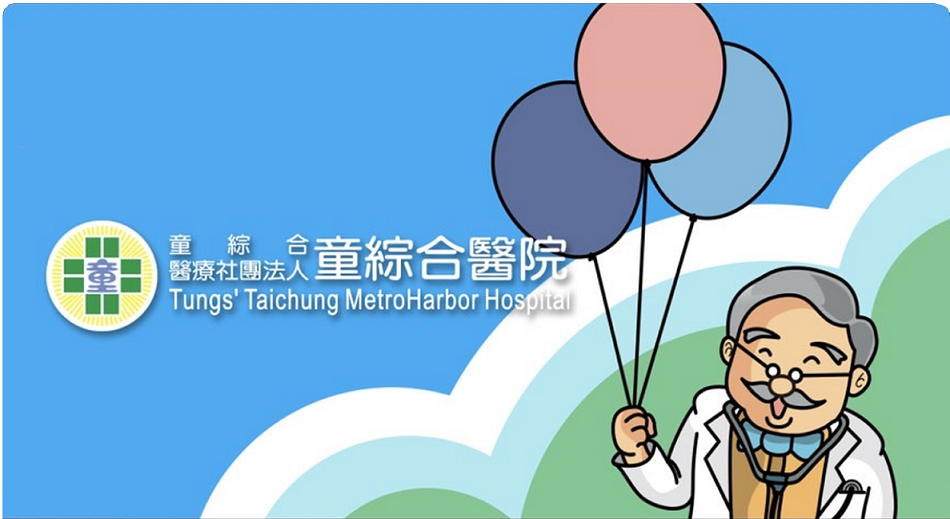
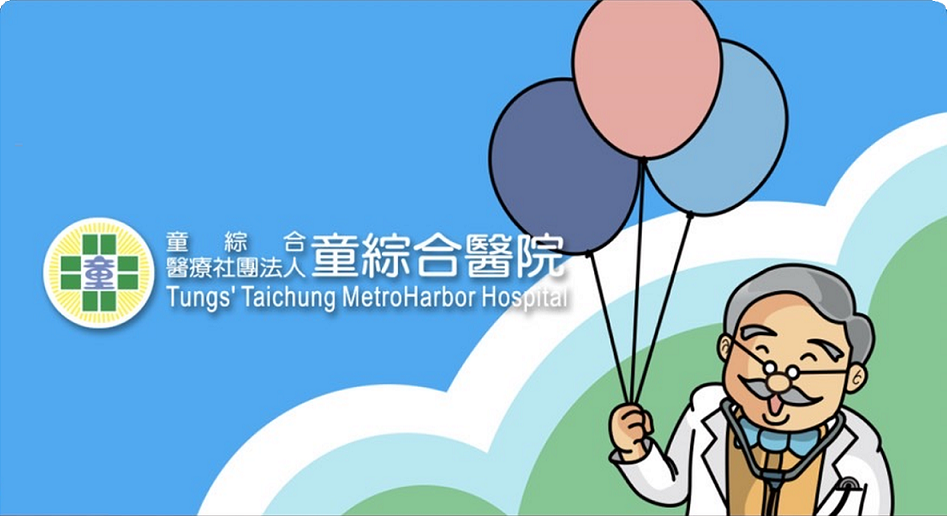
homePage ui cut with 3 piece

diff --git a/src/assets/css/style.css b/src/assets/css/style.css
@@ -1,9 +1,109 @@
-/* //! home start */
-.img-item {
+.context-item {
+    min-height: 100px;
     padding: 12px;
     cursor: pointer;
+    width: 33.3%;
+    margin: 12px;
+    display: flex;
+    text-align: center;
+    justify-content: center;
+    align-items: center;
+    border-radius: 10px;
+    background: #ebebeb;
+    color: #fefcfb;
+    /* box-shadow: 2px 2px 7px 2px rgb(0 0 0 / 32%); */
+    ;
 }
 
+.context-item:hover {
+    background: #aaaaaa;
+    color: rgb(243, 243, 243);
+}
+
+.context-item>p {
+    font-size: 20px;
+    font-weight: 600;
+    margin: auto;
+}
+
+.context-item-empty {
+    padding: 12px;
+    width: 33.3%;
+    margin: 12px;
+    display: flex;
+    text-align: center;
+    justify-content: center;
+    align-items: center;
+}
+
+.color1 {
+    background: #35d99b;
+}
+
+.color1:hover {
+    background: #ff918f;
+}
+
+.color2 {
+    background-color: #41d3d3;
+
+}
+
+.color2:hover {
+    background: #ffa267;
+}
+
+
+
+/* //! home start */
+.home-item {
+    cursor: pointer;
+    width: 33%;
+    text-align: center;
+    filter: hue-rotate(102deg);
+}
+
+
+
+.home-item:hover {
+    filter: hue-rotate(308deg)
+}
+
+.img {
+    width: 60%;
+}
+
+
+
+
+
+@media screen and (min-width: 992px) {
+
+    .img {
+        width: 45%;
+    }
+}
+
+@media screen and (max-width: 768px) {
+    .home-item {
+        width: 30%;
+    }
+
+    .img {
+        width: 90%;
+    }
+}
+
+@media screen and (max-width: 768px) {
+    .home-item {
+        width: 33%;
+
+    }
+
+    .img {
+        width: 100%;
+    }
+}
 
 /* //! home end */
 
@@ -277,10 +377,6 @@ ul .row-p1 {
 /*  //!  editRemark end*/
 
 /*  //!  divisionProgress start*/
-.division-item {
-    padding: 12px;
-    cursor: pointer;
-}
 
 .division-item>div {
     color: white;
@@ -292,22 +388,7 @@ ul .row-p1 {
     text-align: center;
 }
 
-.green {
-    background-color: #aec23f;
-}
 
-.green:hover {
-    background-color: #8c9c31;
-}
-
-.brown {
-    background-color: #e2af3c;
-}
-
-.brown:hover {
-
-    background-color: #9c7b2c;
-}
 
 /* //!  divisionProgress end */
 

diff --git a/src/views/Home.vue b/src/views/Home.vue
@@ -1,42 +1,33 @@
 <template>
   <div>
-    <div class="row justify-content-center">
-      <img class="col-md-8 col-lg-6" src="../assets/head.png" alt="看診進度" />
-    </div>
-
-    <div class="row justify-content-center">
-      <img
-        @click="jumpPage('/DivisionProgress')"
-        class="col-md-4 col-lg-3 img-item"
-        src="../assets/chooseDept.png"
-        alt="看診進度"
-      />
-      <img
-        @click="jumpPage('/PatientInquire')"
-        class="col-md-4 col-lg-3 img-item"
-        src="../assets/patientinquire.png"
-        alt="病人查詢"
-      />
-    </div>
-    <!-- <div class="row justify-content-center">
-      <div
-        @click="jumpPage('/DivisionProgress')"
-        class="col-md-4 col-lg-3 division-item"
-      >
-        <div class="brown">
-          <h1>各項進度</h1>
-        </div>
+    <div class="d-flex justify-content-center">
+      <div class="img">
+        <img
+          style="width: 100%; border-radius: 8px"
+          src="../assets/head.png"
+          alt="看診進度"
+        />
       </div>
-
-      <div
-        @click="jumpPage('/PatientInquire')"
-        class="col-md-4 col-lg-3 division-item"
-      >
-        <div class="green">
-          <h1>查詢取消</h1>
+    </div>
+    <div class="d-flex justify-content-center">
+      <div class="img d-flex">
+        <div class="home-item" @click="jumpPage('/DivisionProgress')">
+          <img
+            style="width: 100%; padding: 12px; border-radius: 25px"
+            src="../assets/chooseDept.png"
+            alt="看診進度"
+          />
         </div>
+        <div class="home-item" @click="jumpPage('/Registed')">
+          <img
+            style="width: 100%; padding: 12px; border-radius: 25px"
+            src="../assets/patientinquire.png"
+            alt="病人查詢"
+          />
+        </div>
+        <!-- <div class="img-item green" style="margin: 12px"></div> -->
       </div>
-    </div> -->
+    </div>
   </div>
 </template>
 <script>

diff --git a/src/views/Registed.vue b/src/views/Registed.vue
@@ -1,20 +1,16 @@
 <template>
   <div class="w-100">
-    <!-- <div
+    <div
       style="
         padding: 10px 10px 0px 10px;
         justify-content: space-between;
         overflow: hidden;
       "
     >
-      <button
-        class="btn btn-unactive btn-toShowClinic"
-        @click="jumpPage('/')"
-        v-if="this.$store.state.area != 0"
-      >
-        回首頁
+      <button class="btn btn-unactive btn-toShowClinic" @click="jumpPage()">
+        上一頁
       </button>
-    </div> -->
+    </div>
     <!-- //! 輸入欄列表 -->
     <div class="reg-inputlist">
       <div class="d-inline text-wrap">
@@ -199,10 +195,8 @@ export default {
     };
   },
   methods: {
-    jumpPage(str) {
-      this.$router.push({
-        path: str,
-      });
+    jumpPage() {
+      this.$router.back();
     },
     //! 日期
     transyy(str) {
@@ -246,9 +240,24 @@ export default {
       this.$gows.callWSOffical("pvt.pip.regquery", param).then((rt) => {
         if (rt.sts == "000000") {
           this.regqueryLists = rt.val.resultList;
-          console.log("getregquery", rt);
-          this.isTable = true;
+          if (this.regqueryLists.length == 0) {
+            this.$swal.fire({
+              icon: "info",
+              title: "查無資料",
+            });
+            this.isTable = false;
+          } else {
+            this.isTable = true;
+          }
+        } else {
+          this.regqueryLists = rt.val.resultList;
+          this.$swal.fire({
+            icon: "error",
+            title: "查無病歷資料",
+          });
+          this.isTable = false;
         }
+        console.log("getregquery", rt);
       });
     },
   },

diff --git a/src/views/DivisionProgress.vue b/src/views/DivisionProgress.vue
@@ -1,30 +1,27 @@
 <template>
-  <div>
-    <!-- <router-link to="/ChooseDept">看診進度</router-link>
-    <br>
-    <router-link to="/ReservePrescription">慢性病處方箋預約</router-link> -->
-
-    <div class="row justify-content-center">
-      <img class="col-md-8 col-lg-6" src="../assets/head.png" alt="看診進度" />
+  <div style="width: 100%">
+    <div class="d-flex justify-content-center">
+      <div class="img">
+        <img
+          style="width: 100%; border-radius: 8px"
+          src="../assets/head.png"
+          alt="看診進度"
+        />
+      </div>
     </div>
 
-    <div class="row justify-content-center">
-      <div
-        @click="jumpPage('/ToSearch')"
-        class="col-md-4 col-lg-3 division-item"
-      >
-        <div class="green">
-          <h1>看診進度</h1>
+    <div class="d-flex justify-content-center">
+      <div class="img d-flex">
+        <div class="context-item color1" @click="jumpPage('/ToSearch')">
+          <p>看診進度</p>
         </div>
-      </div>
-
-      <div
-        @click="jumpPage('/ReservePrescription')"
-        class="col-md-4 col-lg-3 division-item"
-      >
-        <div class="brown">
-          <h1>慢性病處方箋預約</h1>
+        <div
+          class="context-item color2"
+          @click="jumpPage('/ReservePrescription')"
+        >
+          <p>慢性病處方箋預約</p>
         </div>
+        <div class="context-item-empty"></div>
       </div>
     </div>
   </div>

diff --git a/src/views/ToSearch.vue b/src/views/ToSearch.vue
@@ -1,10 +1,28 @@
 <template>
   <div>
-    <div class="row justify-content-center">
-      <img class="col-md-8 col-lg-6" src="../assets/head.png" alt="看診進度" />
+    <div class="d-flex justify-content-center">
+      <div class="img">
+        <img
+          style="width: 100%; border-radius: 8px"
+          src="../assets/head.png"
+          alt="看診進度"
+        />
+      </div>
     </div>
 
-    <div class="row justify-content-center">
+    <div class="d-flex justify-content-center">
+      <div class="img d-flex justify-content-start w-60">
+        <div class="context-item color2" @click="jumpPage('/ChooseDept')">
+          <p>門診查詢</p>
+        </div>
+        <div class="context-item color1" @click="jumpPage('/Registed')">
+          <p>掛號查詢</p>
+        </div>
+        <div class="context-item-empty"></div>
+      </div>
+    </div>
+
+    <!-- <div class="row justify-content-center">
       <div
         @click="jumpPage('/ChooseDept')"
         class="col-md-4 col-lg-3 division-item"
@@ -22,7 +40,7 @@
           <h1>掛號查詢</h1>
         </div>
       </div>
-    </div>
+    </div> -->
   </div>
 </template>
 <script>

diff --git a/src/views/SelectClinic.vue b/src/views/SelectClinic.vue
@@ -30,7 +30,7 @@
           {{ dept.deptName }}
         </div>
         <div v-if="dept.deptName != null" class="rwdTitle2">
-          <p style="display: inline-block; margin: 0px">-</p>
+          <p style="display: inline-block; margin: 0px"></p>
           {{ dept.deptName }}
         </div>
       </div>

diff --git a/src/router.js b/src/router.js
@@ -12,7 +12,7 @@ import Home from './views/Home.vue'
 Vue.use(Router)
 
 export default new Router({
-  mode: 'history',
+  // mode: 'history',
   routes: [
     {
       path: '/',

diff --git a/vue.config.js b/vue.config.js
@@ -2,5 +2,6 @@ module.exports = {
   lintOnSave: false,
   devServer: {
     https: true
-  }
+  },
+  publicPath: process.env.NODE_ENV === 'production' ? './' : '/'
 }
